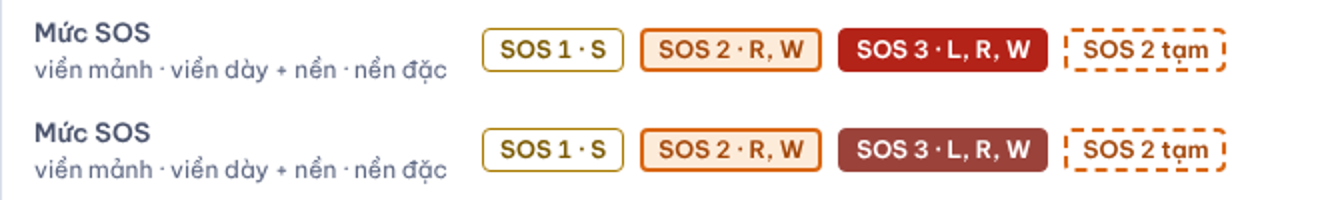
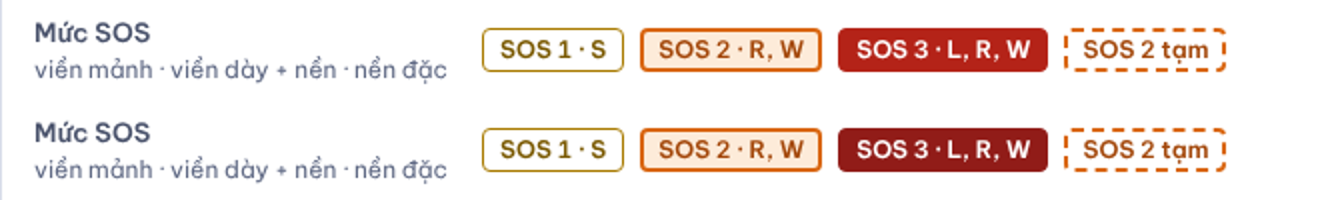
NEN-SUA mục 1 (chủ SP góp ý): SOS 3 vẫn đỏ, đậm hơn thay vì đỏ gạch
Nền đỏ đậm #911c18 (sáng) / #9c201c (tối); tối thêm viền --sos3-vien #d32f2f để tách mặt ≥ 3 : 1. kiem-tuong-phan.py đạt.

Claude-Session: https://claude.ai/code/session_01BENE3nHLHtvRmuaAGvkBVF

Changed region(s): [[0.6212, 0.63, 0.8076, 0.87]]

diff --git a/thiet-ke/v5/v5-nen.css b/thiet-ke/v5/v5-nen.css
@@ -81,10 +81,10 @@
   --kq-vuot: #146c43;  --kq-bang: #273c8f;  --kq-duoi: #b42318;
 
   /* SOS — thang vàng → cam → đỏ, KHÔNG hồng (brief 5.2). V5-D (09 I.6, P6): 3 mức khác hẳn bằng ĐỘ ĐẶC của nền —
-     SOS 1 nền vàng nhạt · SOS 2 nền cam đặc · SOS 3 nền đỏ gạch đặc chữ trắng (NEN-SUA 22/10: bớt chói, giảm bão hoà); luôn kèm chữ "SOS n"; tạm = viền đứt. Logic SOS không đổi. */
+     SOS 1 nền vàng nhạt · SOS 2 nền cam đặc · SOS 3 nền đỏ đậm đặc chữ trắng (NEN-SUA 22/10: bớt chói = đậm hơn; tối có viền --sos3-vien sáng hơn để tách mặt ≥ 3 : 1); luôn kèm chữ "SOS n"; tạm = viền đứt. Logic SOS không đổi. */
   --sos1: #b38600;  --sos1-chu: #6b4e00;  --sos1-nen: #fff1b8;
   --sos2: #e07a16;  --sos2-chu: #a3470a;  --sos2-nen: #f28a1f;  --sos2-tren: #1f1000;
-  --sos3: #8f1610;  --sos3-chu: #9b1c14;  --sos3-nen: #9b433b;  --sos3-tren: #ffffff;
+  --sos3: #8f1610;  --sos3-chu: #9b1c14;  --sos3-nen: #911c18;  --sos3-tren: #ffffff;  --sos3-vien: #911c18;
 
   /* Lịch thi — nền xanh lơ nhạt đặc, góc vuông: khác hẳn kết quả học tập (C23) */
   --lich-nen: #d9eaf5;  --lich-chu: #164e72;  --lich-vien: #9cc4dd;
@@ -128,7 +128,7 @@
   --kq-vuot: #74d9a3;  --kq-bang: #98c0f2;  --kq-duoi: #ff9a8f;
   --sos1: #d6b828;  --sos1-chu: #f0d24a;  --sos1-nen: #3a3006;
   --sos2: #f28a1f;  --sos2-chu: #f7a25a;  --sos2-nen: #f28a1f;  --sos2-tren: #1f1000;
-  --sos3: #c62828;  --sos3-chu: #ff9a8f;  --sos3-nen: #ab5049;  --sos3-tren: #ffffff;
+  --sos3: #c62828;  --sos3-chu: #ff9a8f;  --sos3-nen: #9c201c;  --sos3-tren: #ffffff;  --sos3-vien: #d32f2f;
   --lich-nen: #133a58;  --lich-chu: #9fd0f0;  --lich-vien: #2d5f82;  --da-thi-nen: #0c2033;
   --bong-noi: 0 8px 24px rgba(0, 0, 0, .5), 0 1px 3px rgba(0, 0, 0, .4);
 }
@@ -199,7 +199,7 @@ textarea.o { height: auto; min-height: 72px; padding: 8px 10px; resize: vertical
 .bd-sos { border-radius: var(--bo-badge); border: 1px solid; font-weight: 700; }
 .bd-sos.m1 { color: var(--sos1-chu); background: var(--sos1-nen); border-color: var(--sos1); }
 .bd-sos.m2 { color: var(--sos2-tren); background: var(--sos2-nen); border-color: var(--sos2); }
-.bd-sos.m3 { color: var(--sos3-tren); background: var(--sos3-nen); border-color: var(--sos3-nen); }
+.bd-sos.m3 { color: var(--sos3-tren); background: var(--sos3-nen); border-color: var(--sos3-vien); }
 .bd-sos.tam { border-style: dashed; border-color: var(--chu); }
 /* Nhóm 2 — TÌNH TRẠNG LỊCH THI: nền xanh lơ đặc, góc vuông 2 px, KHÔNG viền màu kết quả. "Đã thi · chờ KQ" ở đây — không thể nhầm với Đạt. */
 .bd-lich { border-radius: 2px; background: var(--lich-nen); color: var(--lich-chu); }

diff --git a/web/src/index.css b/web/src/index.css
@@ -65,8 +65,8 @@
     --sos1-rgb: 214 184 40;  --sos1-chu-rgb: 227 200 74;
     --sos2-rgb: 232 112 42;  --sos2-chu-rgb: 245 147 90;
     --sos3-rgb: 240 100 90;  --sos3-chu-rgb: 255 154 143;
-    /* P6 (chủ SP 22/10): 3 mức khác hẳn — SOS 1 viền mảnh · SOS 2 viền dày + nền cam nhạt · SOS 3 nền đỏ gạch đặc chữ trắng (NEN-SUA: bớt chói, giảm bão hoà). */
-    --sos2-nen: #3a2410;  --sos3-nen: #ab5049;  --sos3-tren: #ffffff;
+    /* P6 (chủ SP 22/10): 3 mức khác hẳn — SOS 1 viền mảnh · SOS 2 viền dày + nền cam nhạt · SOS 3 nền đỏ đậm đặc chữ trắng (NEN-SUA: bớt chói = đậm hơn; viền --sos3-vien tách mặt tối). */
+    --sos2-nen: #3a2410;  --sos3-nen: #9c201c;  --sos3-vien: #d32f2f;  --sos3-tren: #ffffff;
     /* Hàng ĐÃ THI · chờ KQ — nền cả hàng + vạch trái 3 px màu lịch (V5 `--da-thi-nen`). */
     --da-thi-bg-rgb: 15 35 53;
     /* KẾT QUẢ ĐIỂM — chỉ tô chính con số + ✓ / ✗ đứng trước, không nền. Vượt kỳ vọng · bằng (vẫn Đạt) · dưới. */
@@ -127,7 +127,7 @@
     --sos1-rgb: 168 122 0;   --sos1-chu-rgb: 122 89 0;
     --sos2-rgb: 217 101 15;  --sos2-chu-rgb: 163 71 10;
     --sos3-rgb: 180 35 24;   --sos3-chu-rgb: 155 28 20;
-    --sos2-nen: #fdebd9;  --sos3-nen: #9b433b;  --sos3-tren: #ffffff;
+    --sos2-nen: #fdebd9;  --sos3-nen: #911c18;  --sos3-vien: #911c18;  --sos3-tren: #ffffff;
     --da-thi-bg-rgb: 238 245 250;
     --kq-vuot-rgb: 20 108 67;    --kq-bang-rgb: 39 60 143;    --kq-duoi-rgb: 180 35 24;
 

diff --git a/web/src/ui/Nhan.tsx b/web/src/ui/Nhan.tsx
@@ -32,7 +32,7 @@ export function lopSos(muc: number, tam?: boolean): string {
   if (muc <= 1) return `bg-[color:var(--surface)] border border-sos1 text-sos1-chu ${tam ? '!border-dashed' : ''}`;
   if (muc === 2) return `border-2 !px-[7px] border-sos2 text-sos2-chu ${tam ? 'bg-[color:var(--surface)] !border-dashed' : 'bg-[color:var(--sos2-nen)]'}`;
   return tam ? 'bg-[color:var(--surface)] border-2 !px-[7px] border-dashed border-sos3 text-sos3-chu'
-    : 'border border-[color:var(--sos3-nen)] bg-[color:var(--sos3-nen)] font-bold text-[color:var(--sos3-tren)]';
+    : 'border border-[color:var(--sos3-vien)] bg-[color:var(--sos3-nen)] font-bold text-[color:var(--sos3-tren)]';
 }
 /** Khung chip SOS (cùng họ góc 4 px với kết quả — C23). */
 export const CHIP_SOS = 'inline-flex h-[22px] min-w-[30px] shrink-0 items-center justify-center whitespace-nowrap rounded px-2 text-xs font-semibold leading-none tabular-nums';

diff --git a/thiet-ke/v5/kiem-tuong-phan.py b/thiet-ke/v5/kiem-tuong-phan.py
@@ -35,7 +35,7 @@ CAP = [(c, NEN, 4.5) for c in ['chu', 'chu-2', 'chu-3', 'nhan', 'hong-chu', 'loi
     ('sos1', ['be-mat'], 3.0), ('sos2', ['be-mat'], 3.0), ('sos3', ['be-mat'], 3.0),
     # V5-D P6: chữ trên nền SOS đặc + nền SOS tách khỏi mặt
     ('sos1-chu', ['sos1-nen'], 4.5), ('sos2-tren', ['sos2-nen'], 4.5), ('sos3-tren', ['sos3-nen'], 4.5),
-    ('sos3-nen', ['be-mat'], 3.0),  # SOS 2 tách khỏi mặt nhờ viền --sos2 (đã đo ở trên)
+    ('sos3-vien', ['be-mat', 'be-mat-2'], 3.0),  # NEN-SUA: viền SOS 3 tách mặt (nền đỏ đậm tối < 3 : 1). SOS 2 tách khỏi mặt nhờ viền --sos2 (đã đo ở trên)
 ]
 
 loi = 0
